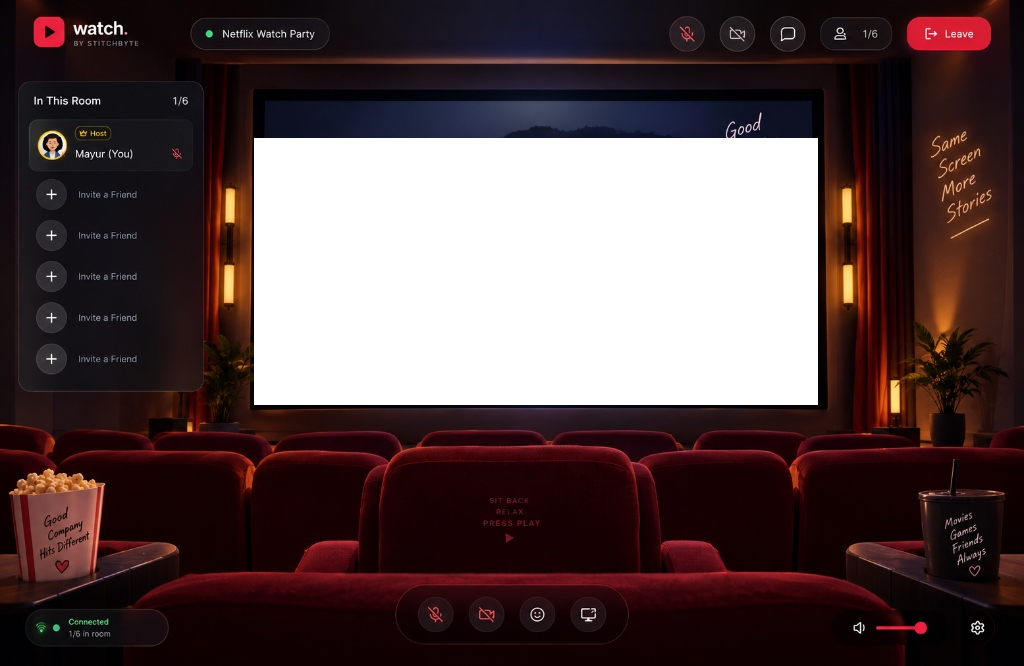
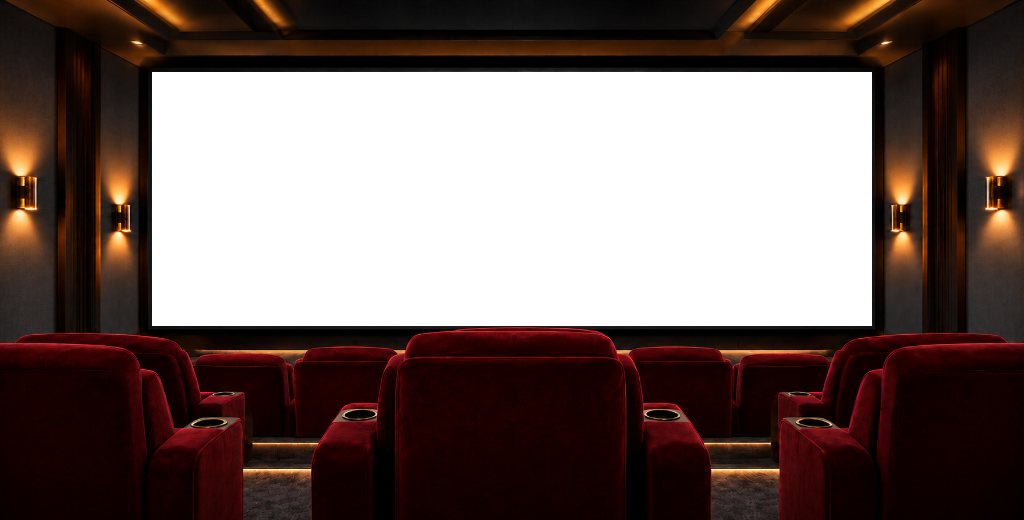
feat: update theater background with luxury cinema backdrop and calibrated screen placement

diff --git a/apps/web/src/components/player/PixelPerfectTheater.tsx b/apps/web/src/components/player/PixelPerfectTheater.tsx
@@ -394,6 +394,33 @@ export function PixelPerfectTheater({
   const isLarge = screenSize === 'large';
 
   const screenStyle = useMemo(() => {
+    if (currentTheaterTheme.id === 'cinema-vip') {
+      if (isImax) {
+        return {
+          top: '7.5%',
+          left: '6.5%',
+          width: '87%',
+          height: '59%',
+        };
+      }
+      if (isLarge) {
+        return {
+          top: '10.5%',
+          left: '10.5%',
+          width: '79%',
+          height: '54%',
+        };
+      }
+      // standard: fits directly onto the theater screen inside the background
+      return {
+        top: '13.8%',
+        left: '14.8%',
+        width: '70.4%',
+        height: '48.7%',
+      };
+    }
+
+    // Default for other themes
     if (isImax) {
       return {
         top: '5.8%',
@@ -417,7 +444,7 @@ export function PixelPerfectTheater({
       width: '74%',
       height: '56.5%',
     };
-  }, [isImax, isLarge]);
+  }, [isImax, isLarge, currentTheaterTheme.id]);
 
   const lastProcessedReactionRef = useRef<string | null>(latestReactions?.[0]?.id || null);
   const theaterMountTimeRef = useRef<number>(Date.now());
